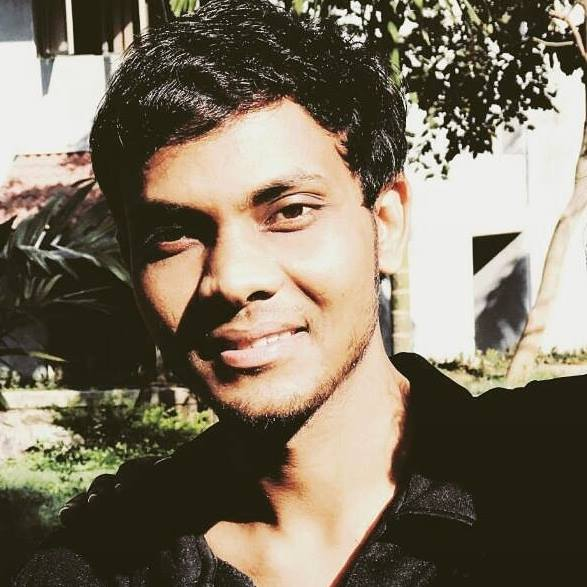
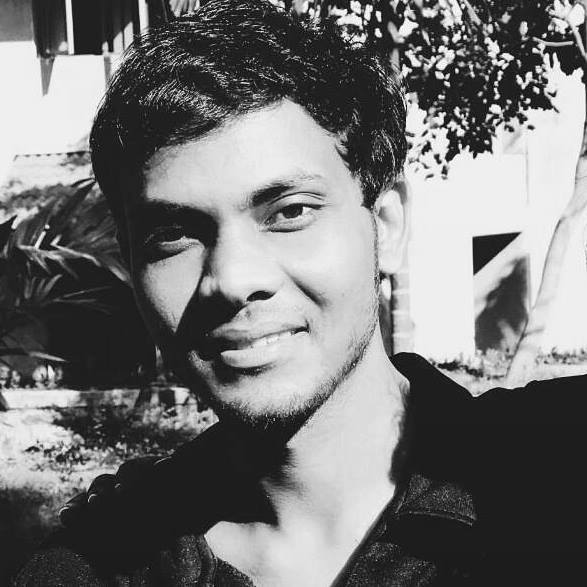
about v1.0

diff --git a/about.html b/about.html
@@ -75,7 +75,7 @@
                 <div class="col-12 col-lg-6 order-2 order-lg-1">
                     <div class="welcome-content">
                         <header class="entry-header">
-                            <h2 class="entry-title">Wellcome to PLF</h2>
+                            <h2 class="entry-title">Welcome to PLF</h2>
                         </header><!-- .entry-header -->
                         <div class="entry-content mt-5">
                             <p>We are an independent think tank working to inspire and inform policy with our unique approach of learning and evolving to respond to changing times. We came into being in response to the last three decades of intensive restructuring of international institutions and public policy. </p>
@@ -87,7 +87,7 @@
                 </div><!-- .col -->
 
                 <div class="col-12 col-lg-6 order-2 order-lg-1" >
-                    <img src="images/welcome.jpg" alt="welcome">
+                    <img src="images/welcome1.jpg" alt="welcome">
                 </div><!-- .col -->
             </div><!-- .row -->
             <div class="welcome-content">
